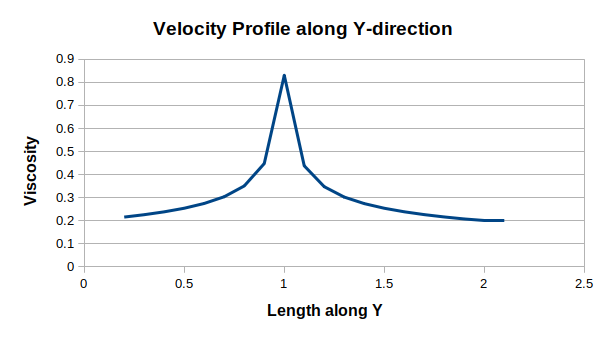
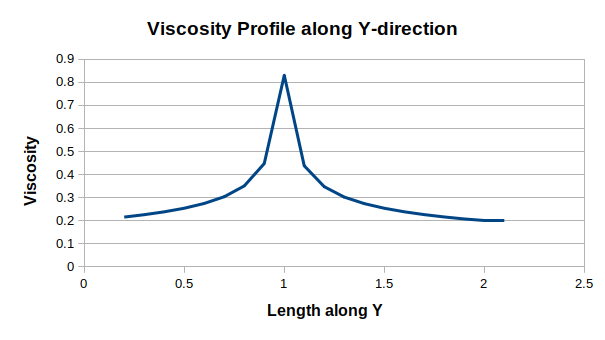
added channel with obstacle to project report

Changed region(s): [[0.238, 0.0588, 0.7736, 0.1176]]

diff --git a/ProjectReport.md b/ProjectReport.md
@@ -131,9 +131,10 @@ We started by simulating a non Newtonian fluid in a channel with step and inflow
 <em> Plots comapring pressure variation along length (left) and velocity profile along cross section (right) for Newtonian and Non-Newtonian simulation of a channel with step with inflow BC and limiting viscosity 0.2  </em>
 
 <p> 
+<img src="docs/ProjectPlots/ViscosityAlongX_InflowBC_ChannelWithBFS.png" width="500">
 <img src="docs/ProjectPlots/ViscosityAlongY_InflowBC_ChannelWithBFS.png" width="500">
 </p>
-<em> Viscosity variation along cross-section for Non-Newtonian simulation of a channel with step with inflow BC and limiting viscosity 0.2  </em>
+<em> Viscosity variation along length(left) and along cross-section(right)for Non-Newtonian simulation of a channel with step with inflow BC and limiting viscosity 0.2  </em>
 
 As we have already seen for the pipe flow case, the change in velocity profile along the y-axes is extremely small and in this case it is even nearly noticeable. We have therefore conducted a new simulation, using a pressure driven flow, with a constant pressure drop of 1 unit over the entire length.
 
@@ -147,9 +148,47 @@ As we have already seen for the pipe flow case, the change in velocity profile a
 <img src="docs/ProjectPlots/VelocityProfileComparison_PressDriv_ChannelWithBFS.png" width="570">
 <img src="docs/ProjectPlots/VelocityProfileComparison_PressDrivScaled_ChannelWithBFS.png" width="500">
 </p>
-<em>Velocity profiles actual (left) and scaled(right) for Newtonian and Non-Newtonian simulation for pressure-driven flow with viscosity 0.2 </em>
+<em>Velocity profiles actual (left) and scaled(right) for Newtonian and Non-Newtonian simulation for pressure-driven flow with limiting viscosity 0.2 </em>
 
 ### Channel with Obstacle
+
+Again, we conducted similar analysis for a flow in a channel with an obstacle. The results we obtained are similar to those resulting from the channel with step.
+
+We conducted our first simulation with inflow BC and limiting viscosity equal to 0.2.
+
+<p> 
+<img src="docs/ProjectPlots/nonNew_vis_obstacle_inflow.png" width="500">
+<img src="docs/ProjectPlots/nonNew_vel_obstacle_inflow.png" width="500">
+</p>
+<em> Viscosity field (left) and Velocity field (right) for Non-Newtonian simulation of a channel with obstacle with inflow BC and limiting viscosity 0.2  </em>
+
+<p> 
+<img src="docs/ProjectPlots/PressureDropComparison_inflowBC_ChannelWithObstacle.png" width="500">
+<img src="docs/ProjectPlots/VelocityProfileComparison_inflowBC_ChannelWithObstacle.png" width="500">
+</p>
+<em> Plots comapring pressure variation along length (left) and velocity profile along cross section (right) for Newtonian and Non-Newtonian simulation of a channel with obstacle with inflow BC and limiting viscosity 0.2  </em>
+
+<p> 
+<img src="docs/ProjectPlots/ViscosityAlongX_InflowBC_ChannelWithObstacle.png" width="500">
+<img src="docs/ProjectPlots/ViscosityAlongY_InflowBC_ChannelWithObstacle.png" width="500">
+</p>
+<em> Viscosity variation along length(left) and along cross-section(right)for Non-Newtonian simulation of a channel with step with inflow BC and limiting viscosity 0.2  </em>
+
+For the pressure drop, we can clearly see the presence of the obstacle in our domain, as expected.
+
+Results obtained simulation a pressure-driven flow with constant pressure drop equal to 1 unity show different x-velocity profiles along the y-axes.
+
+<p> 
+<img src="docs/ProjectPlots/nonNew_vis_obstacle_PressDriv.png" width="500">
+<img src="docs/ProjectPlots/nonNew_vel_obstacle_PressDriv.png" width="500">
+</p>
+<em> Viscosity field (left) and Velocity field (right) for Non-Newtonian simulation of a channel with obstacle for a pressure-driven flow with limiting viscosity 0.2  </em>
+
+<p> 
+<img src="docs/ProjectPlots/VelocityProfileComparison_PressDriv_ChannelWithObstacle.png" width="570">
+<img src="docs/ProjectPlots/VelocityProfileComparison_PressDrivScaled_ChannelWithObstacle.png" width="500">
+</p>
+<em>Velocity profiles actual (left) and scaled(right) for Newtonian and Non-Newtonian simulation for pressure-driven flow with limiting viscosity 0.2 </em>
 
 ### Discussion
 1. The extent of the effect of Non-Newtonian model depends on the specific problem, geometry, Re, and boundary conditions. 
